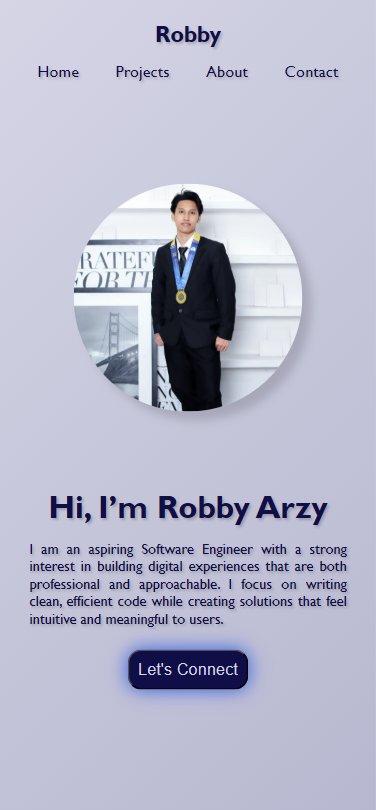
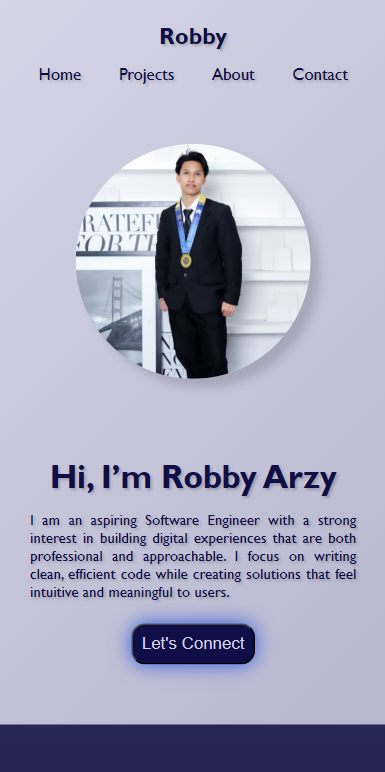
Update all file

diff --git a/index.css b/index.css
@@ -189,7 +189,7 @@ section{
     justify-content: center;
     align-items: center;
     gap: 3rem;
-    padding: 5rem 1rem 10rem 1rem;
+    padding: 2rem 1rem 4rem 1rem;
 }
 .hero-image img{
     width: 500px;
@@ -416,20 +416,6 @@ section{
     background-color: var(--hover2);
     color: var(--accent);
     transform: translateY(-10px);
-}
-/* Success Message */
-.sc-container{
-    display: flex;
-    justify-content: center;
-}
-.success-message{
-    opacity: 0;
-    color: #4a874a;
-    font-weight: bold;
-    transition: opacity 0.5s ease;
-}
-.success-message.show{
-    opacity: 1;
 }
 
 /* Footer */

diff --git a/index.html b/index.html
@@ -256,10 +256,7 @@
                         </ul>
                     </div>
                 </section>
-            </div>
-            <div class="sc-container">
-                <p id="success-message" class="success-message">Message Sent!</p>
-            </div>  
+            </div>           
         </section>
         <!-- Contact End -->
     </main>

diff --git a/index.js b/index.js
@@ -137,12 +137,6 @@ form.addEventListener("submit", function(e){
     console.log("Email:", email);
     console.log("Message:", message);
 
-    successMessage.classList.add("show");
-
-    setTimeout(function(){
-        successMessage.classList.remove("show");
-    }, 3000);
-
     form.reset();
 });
 
